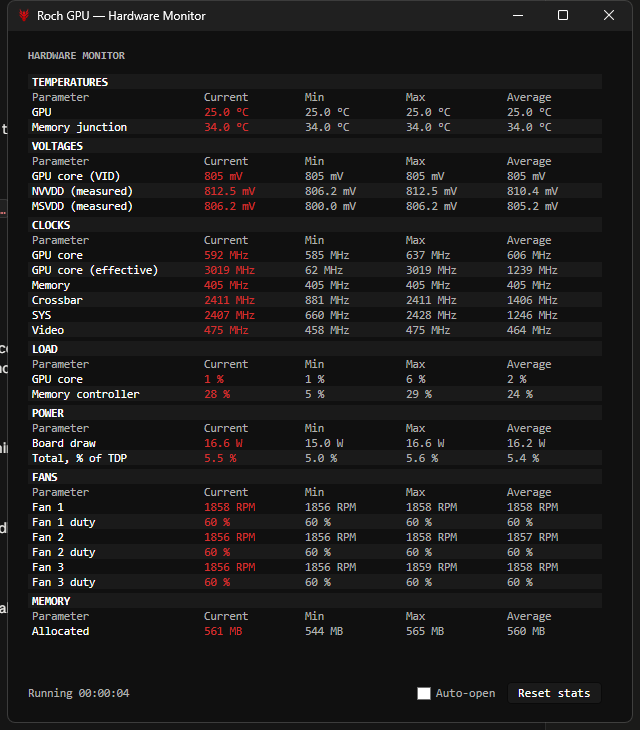
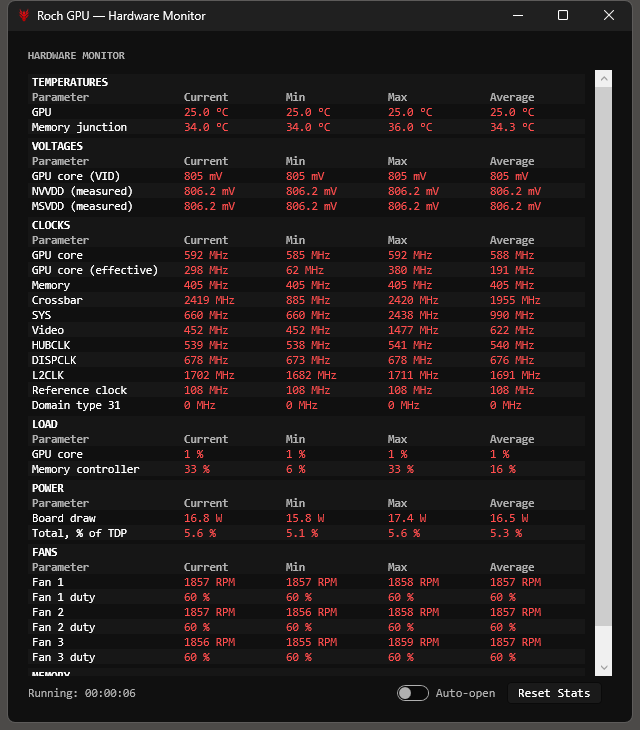
Style the hardware monitor to match Roch Viewer's telemetry
Taken from its dimm_telemetry_window source rather than from the screenshot, so
the values are the ones it actually uses:

- All four figure columns carry the value colour, not just Current. Its cells
  are built in one loop with text_color=theme["value"]; the name column is the
  only one in plain text.
- Section titles and the repeated column strip sit on header_bg, which is
  BG_COLOR2 (#161616) - the panel ground, not the row tint they had here.
- Row banding is HIGHLIGHT_COLOR (#171717), one step off the panel rather than
  the row colour used before. Against a #161616 table that reads as texture
  instead of stripes.
- The name column is 150 wide with the four figure columns equal, matching its
  minsize=150 and uniform="stat".
- The column strip is bold, because it is a heading and it repeats under every
  section.
- Auto-open is a switch rather than a check box, 32 by 16 like CTkSwitch. Its
  "on" colour is the neutral #343434 its own switch uses, not the brand red: a
  setting that costs an extra poll is not something to advertise.
- "Running: " with the colon, and "Reset Stats" capitalised, as there.

The new HighlightBrush is in the theme table too, so it follows light and dark
with everything else.

246 tests pass.

diff --git a/src/GpuTuner.App/MonitorWindow.xaml b/src/GpuTuner.App/MonitorWindow.xaml
@@ -8,6 +8,37 @@
         Style="{StaticResource {x:Type Window}}">
     <Window.Resources>
         <conv:BoolToVisibilityConverter x:Key="BoolToVis"/>
+
+        <!-- Roch Viewer's telemetry uses a switch here rather than a check box, 32 by 16 with the
+             track filling when it is on. Its "on" colour is the neutral #343434, not the brand red -
+             a setting that costs an extra poll is not something to advertise. -->
+        <Style x:Key="Switch" TargetType="ToggleButton">
+            <Setter Property="Cursor" Value="Hand"/>
+            <Setter Property="VerticalAlignment" Value="Center"/>
+            <Setter Property="Template">
+                <Setter.Value>
+                    <ControlTemplate TargetType="ToggleButton">
+                        <StackPanel Orientation="Horizontal">
+                            <Border x:Name="track" Width="32" Height="16" CornerRadius="8"
+                                    Background="{DynamicResource BorderBrush}"
+                                    BorderBrush="{DynamicResource MutedBrush}" BorderThickness="1">
+                                <Ellipse x:Name="knob" Width="12" Height="12" Fill="{DynamicResource MutedBrush}"
+                                         HorizontalAlignment="Left" Margin="1,0,0,0"/>
+                            </Border>
+                            <ContentPresenter Margin="7,0,0,0" VerticalAlignment="Center"/>
+                        </StackPanel>
+                        <ControlTemplate.Triggers>
+                            <Trigger Property="IsChecked" Value="True">
+                                <Setter TargetName="track" Property="Background" Value="{DynamicResource TitleHoverBrush}"/>
+                                <Setter TargetName="knob" Property="Fill" Value="{DynamicResource TextBrush}"/>
+                                <Setter TargetName="knob" Property="HorizontalAlignment" Value="Right"/>
+                                <Setter TargetName="knob" Property="Margin" Value="0,0,1,0"/>
+                            </Trigger>
+                        </ControlTemplate.Triggers>
+                    </ControlTemplate>
+                </Setter.Value>
+            </Setter>
+        </Style>
     </Window.Resources>
     <DockPanel Margin="8">
     <Grid>
@@ -27,12 +58,12 @@
                      four columns, grouped, and each group folds away. -->
                 <Grid x:Name="TableFooter" DockPanel.Dock="Bottom" Margin="0,6,10,0">
                     <Grid.ColumnDefinitions><ColumnDefinition Width="*"/><ColumnDefinition Width="Auto"/></Grid.ColumnDefinitions>
-                    <TextBlock x:Name="Elapsed" Text="Running 00:00:00" Style="{StaticResource Muted}" VerticalAlignment="Center"/>
+                    <TextBlock x:Name="Elapsed" Text="Running: 00:00:00" Style="{StaticResource Muted}" VerticalAlignment="Center"/>
                     <StackPanel Grid.Column="1" Orientation="Horizontal">
-                        <CheckBox x:Name="AutoOpen" Content="Auto-open" Click="AutoOpen_Click" VerticalAlignment="Center"
+                        <ToggleButton x:Name="AutoOpen" Content="Auto-open" Click="AutoOpen_Click" Style="{StaticResource Switch}"
                                   Margin="0,0,12,0" Foreground="{DynamicResource MutedBrush}"
                                   ToolTip="Open this window automatically at launch. It is the only thing that polls the driver, so leaving it off costs nothing until you open it."/>
-                        <Button Content="Reset stats" Click="ResetStats_Click" Padding="10,3"/>
+                        <Button Content="Reset Stats" Click="ResetStats_Click" Padding="10,3" MinWidth="90"/>
                     </StackPanel>
                 </Grid>
 
@@ -47,22 +78,29 @@
                                            >
                                         <Grid>
                                             <Grid.ColumnDefinitions>
-                                                <ColumnDefinition Width="170"/><ColumnDefinition Width="*"/>
+                                                <ColumnDefinition Width="150"/><ColumnDefinition Width="*"/>
                                                 <ColumnDefinition Width="*"/><ColumnDefinition Width="*"/><ColumnDefinition Width="*"/>
                                             </Grid.ColumnDefinitions>
                                             <TextBlock x:Name="nm" Text="{Binding Name}" FontSize="11.5" Margin="4,0,0,0" Foreground="{DynamicResource TextBrush}"/>
-                                            <TextBlock x:Name="cur" Grid.Column="1" Text="{Binding Current}" FontSize="11.5" Margin="6,0,6,0" Foreground="{DynamicResource AccentBrush}"/>
-                                            <TextBlock x:Name="mn" Grid.Column="2" Text="{Binding Minimum}" FontSize="11.5" Margin="6,0,6,0" Foreground="{DynamicResource MutedBrush}"/>
-                                            <TextBlock x:Name="mx" Grid.Column="3" Text="{Binding Maximum}" FontSize="11.5" Margin="6,0,6,0" Foreground="{DynamicResource MutedBrush}"/>
-                                            <TextBlock x:Name="av" Grid.Column="4" Text="{Binding Average}" FontSize="11.5" Margin="6,0,6,0" Foreground="{DynamicResource MutedBrush}"/>
+                                            <TextBlock x:Name="cur" Grid.Column="1" Text="{Binding Current}" FontSize="11.5" Margin="6,0,6,0" Foreground="{DynamicResource BrandBrush}"/>
+                                            <TextBlock x:Name="mn" Grid.Column="2" Text="{Binding Minimum}" FontSize="11.5" Margin="6,0,6,0" Foreground="{DynamicResource BrandBrush}"/>
+                                            <TextBlock x:Name="mx" Grid.Column="3" Text="{Binding Maximum}" FontSize="11.5" Margin="6,0,6,0" Foreground="{DynamicResource BrandBrush}"/>
+                                            <TextBlock x:Name="av" Grid.Column="4" Text="{Binding Average}" FontSize="11.5" Margin="6,0,6,0" Foreground="{DynamicResource BrandBrush}"/>
                                         </Grid>
                                     </Border>
                                     <DataTemplate.Triggers>
                                         <DataTrigger Binding="{Binding IsBanded}" Value="True">
-                                            <Setter TargetName="band" Property="Background" Value="{DynamicResource PanelAltBrush}"/>
+                                            <Setter TargetName="band" Property="Background" Value="{DynamicResource HighlightBrush}"/>
                                         </DataTrigger>
                                         <DataTrigger Binding="{Binding IsColumnHeader}" Value="True">
-                                            <Setter TargetName="band" Property="Background" Value="Transparent"/>
+                                            <Setter TargetName="band" Property="Background" Value="{DynamicResource PanelBrush}"/>
+                                            <!-- Bold there too: the column strip is a heading, and it
+                                                 repeats under every section, so it has to read as one. -->
+                                            <Setter TargetName="nm" Property="FontWeight" Value="Bold"/>
+                                            <Setter TargetName="cur" Property="FontWeight" Value="Bold"/>
+                                            <Setter TargetName="mn" Property="FontWeight" Value="Bold"/>
+                                            <Setter TargetName="mx" Property="FontWeight" Value="Bold"/>
+                                            <Setter TargetName="av" Property="FontWeight" Value="Bold"/>
                                             <Setter TargetName="nm" Property="Foreground" Value="{DynamicResource MutedBrush}"/>
                                             <Setter TargetName="cur" Property="Foreground" Value="{DynamicResource MutedBrush}"/>
                                             <Setter TargetName="mn" Property="Foreground" Value="{DynamicResource MutedBrush}"/>
@@ -70,8 +108,8 @@
                                             <Setter TargetName="av" Property="Foreground" Value="{DynamicResource MutedBrush}"/>
                                         </DataTrigger>
                                         <DataTrigger Binding="{Binding IsHeader}" Value="True">
-                                            <Setter TargetName="band" Property="Background" Value="{DynamicResource PanelAltBrush}"/>
-                                            <Setter TargetName="nm" Property="FontWeight" Value="SemiBold"/>
+                                            <Setter TargetName="band" Property="Background" Value="{DynamicResource PanelBrush}"/>
+                                            <Setter TargetName="nm" Property="FontWeight" Value="Bold"/>
                                             <Setter TargetName="nm" Property="Foreground" Value="{DynamicResource TextBrush}"/>
                                             <Setter TargetName="band" Property="Margin" Value="0,4,0,0"/>
                                         </DataTrigger>

diff --git a/src/GpuTuner.App/App.xaml b/src/GpuTuner.App/App.xaml
@@ -16,6 +16,10 @@
         <SolidColorBrush x:Key="MutedBrush" Color="#FFB0B0B0"/>
         <!-- The title strip sits a shade above the body, as it does there. -->
         <SolidColorBrush x:Key="HeaderBrush" Color="#FF1C1C1C"/>
+        <!-- The telemetry band, one step off the panel rather than a shade of its own: Roch Viewer
+             tints alternate rows #171717 against a #161616 table, which reads as texture and not as
+             stripes. -->
+        <SolidColorBrush x:Key="HighlightBrush" Color="#FF171717"/>
         <!-- Brand red for text: links and live values. Not a fill - the buttons keep their own red. -->
         <SolidColorBrush x:Key="BrandBrush" Color="#FFFF4D4D"/>
         <SolidColorBrush x:Key="BrandHoverBrush" Color="#FFFF8080"/>

diff --git a/src/GpuTuner.App/Native/Theme.cs b/src/GpuTuner.App/Native/Theme.cs
@@ -31,6 +31,7 @@ public static class Theme
         ("TextBrush",        "#FF0F172A", "#FFFFFFFF"),
         ("MutedBrush",       "#FF475569", "#FFB0B0B0"),
         ("HeaderBrush",      "#FFE2E8F0", "#FF1C1C1C"),
+        ("HighlightBrush",   "#FFE8EEF5", "#FF171717"),
         // The brand red is saturated in light and lifted in dark: the dark one on a light ground is
         // too pale to read, and the light one on near-black is too dark. Roch Viewer splits it for
         // the same reason.

diff --git a/src/GpuTuner.App/MonitorWindow.xaml.cs b/src/GpuTuner.App/MonitorWindow.xaml.cs
@@ -102,7 +102,7 @@ public partial class MonitorWindow : Window
         }
         // The table is the only view, so these are always on screen and always worth reading.
         _table.Add(t, extra);
-        Elapsed.Text = "Running " + (DateTime.UtcNow - _statsSince).ToString(@"hh\:mm\:ss");
+        Elapsed.Text = "Running: " + (DateTime.UtcNow - _statsSince).ToString(@"hh\:mm\:ss");
 
         CurveEditor.SetLive(t.TemperatureC, t.FanPercent);
     }
